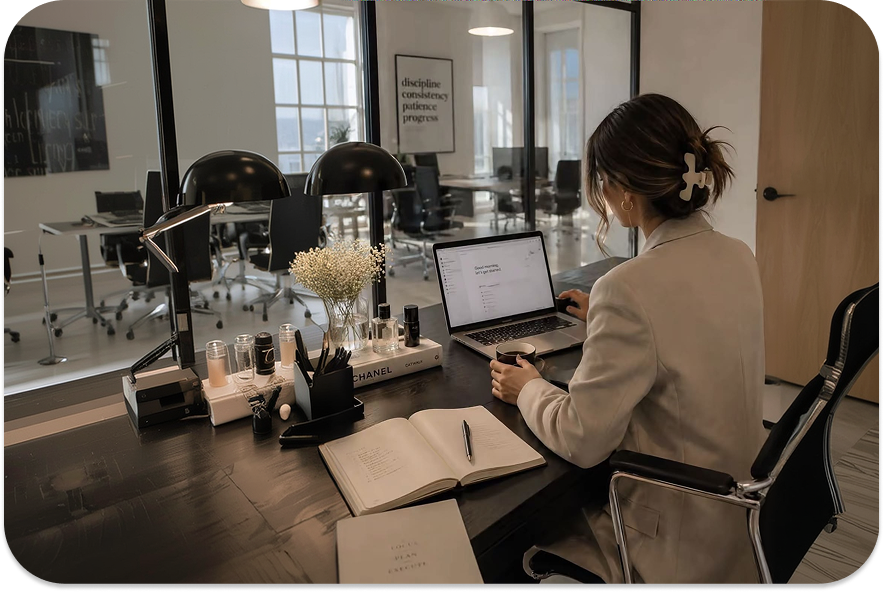
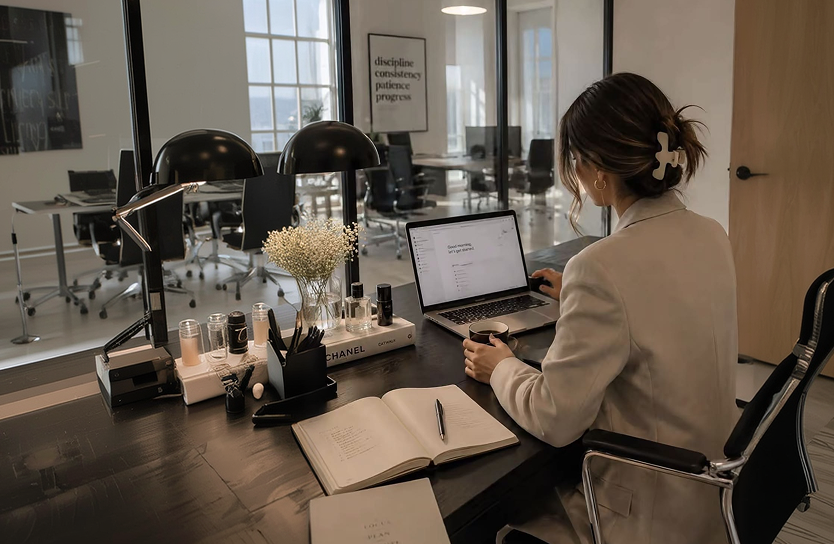
Changes in Landing page 2 basic

diff --git a/client/src/index.css b/client/src/index.css
@@ -12,12 +12,18 @@
 html { scroll-behavior: smooth; }
 body { margin: 0; min-width: 320px; background: #f8ece6; color: #333c37; }
 a { color: inherit; text-decoration: none; }
+button, a { -webkit-tap-highlight-color: transparent; }
+a:focus-visible, button:focus-visible, input:focus-visible { outline: 3px solid #a86da8; outline-offset: 4px; }
 
-.site-header { position: absolute; z-index: 10; width: 100%; padding: 28px 61px 21px; }
+.site-header { position: sticky; top: 0; z-index: 20; width: 100%; padding: 18px 61px; margin-bottom: -116px; transition: padding .25s ease; }
+.site-header.is-scrolled { padding-block: 10px; }
+.site-header.is-scrolled .navbar { box-shadow: 0 10px 24px rgba(74,50,39,.18); background: rgba(248,236,230,.72); }
 .navbar { position: relative; display: flex; height: 80px; width: 100%; align-items: center; justify-content: flex-end; gap: 75px; padding: 12px 40px; border: 1px solid rgba(118,75,100,.4); border-radius: 33px; background: rgba(241,228,221,.34); box-shadow: 4px 4px 7.3px rgba(74,50,39,.17); backdrop-filter: blur(3.1px); }
 .brand { position: absolute; left: 21px; display: flex; align-items: center; gap: 30px; padding: 5px; font: 400 36px/1 var(--font-roboto); color: #000; }
 .brand img { width: 60px; height: 58px; object-fit: contain; }
+.brand:hover img { transform: rotate(-7deg) scale(1.08); } .brand img { transition: transform .25s ease; }
 .nav-links { display: flex; align-items: center; gap: 32px; font: 400 24px/1 var(--font-roboto); color: #000; }
+.nav-links a { position: relative; padding: 7px 0; } .nav-links a::after { content: ''; position: absolute; right: 0; bottom: 0; left: 0; height: 2px; background: #6a4074; transform: scaleX(0); transform-origin: right; transition: transform .25s ease; } .nav-links a:hover::after, .nav-links a.active::after { transform: scaleX(1); transform-origin: left; }
 .signup-link { font-weight: 700; }
 
 .hero-section { position: relative; display: flex; height: 960px; align-items: center; background-position: center; background-size: cover; }
@@ -25,14 +31,18 @@ a { color: inherit; text-decoration: none; }
 .hero-content h1 { margin: 0; font: 400 clamp(70px, 8.333vw, 120px)/.833 var(--font-bebas); color: #333c37; letter-spacing: 0; }
 .hero-content > p { width: min(573px, 82vw); margin: 22px 0 0; color: #7c8c67; font: 600 italic 24px/normal var(--font-rosario); letter-spacing: .48px; }
 .hero-actions { display: flex; gap: 41px; margin: 126px 0 0 27px; }
+.hero-action, .service-action { position: relative; overflow: hidden; cursor: pointer; transition: transform .25s ease, box-shadow .25s ease, filter .25s ease; }
 .hero-action { display: grid; width: 236px; height: 65px; place-items: center; border: 3px solid #62394f; border-radius: 400px; box-shadow: 2px 6px 15.3px rgba(0,0,0,.25); color: #4a2c53; font: 700 24px/1 var(--font-rosario); backdrop-filter: blur(5.95px); }
+.hero-action:hover, .service-action:hover { transform: translateY(-3px) scale(1.025); box-shadow: 0 12px 24px rgba(74,44,83,.28); filter: brightness(1.06); }
 .hero-action-glass { border-color: #4a2c53; background: rgba(255,245,237,.2); }
+.scroll-indicator { position: absolute; bottom: 28px; left: 50%; width: 25px; height: 42px; border: 2px solid #62394f; border-radius: 20px; transform: translateX(-50%); }.scroll-indicator span { display:block; width:5px; height:5px; margin:8px auto; border-radius:50%; background:#62394f; animation: scrollDot 1.7s infinite; } @keyframes scrollDot { 0%,100%{transform:translateY(0);opacity:1} 60%{transform:translateY(15px);opacity:.2} }
 
 .services-heading { display: flex; min-height: 286px; flex-direction: column; align-items: center; justify-content: center; padding: 28px 20px 22px; text-align: center; }
 .services-heading p { margin: 0; color: #6a4074; font: 700 36px/normal var(--font-rosario); letter-spacing: 4.68px; }
 .services-heading h2 { margin: 16px 0 0; color: #333c37; font: 700 64px/normal var(--font-rosario); }
 .services-heading span { margin-top: 15px; color: #414a36; font: 400 24px/normal var(--font-rosarivo); }
-.service-card { display: flex; min-height: 530px; align-items: center; justify-content: center; padding: 25px 100px; backdrop-filter: blur(2px); }
+.service-card { display: flex; min-height: 580px; align-items: center; justify-content: center; padding: 25px 100px; backdrop-filter: blur(2px); transition: transform .3s ease, box-shadow .3s ease; }
+.service-card:hover { transform: translateY(-4px); box-shadow: 0 14px 34px rgba(74,50,39,.12); }
 .service-card.cream { background: #edeae3; }
 .service-card.lilac { background: #e8dee6; }
 .service-card-inner { display: grid; width: 100%; grid-template-columns: 680px minmax(0, 1fr); align-items: center; column-gap: 50px; }
@@ -40,14 +50,15 @@ a { color: inherit; text-decoration: none; }
 .service-card.reversed .service-copy { order: -1; }
 .service-image-wrap { width: 680px; height: 453px; flex: 0 0 auto; overflow: hidden; border-radius: 61px; box-shadow: 0 4px 4px rgba(0,0,0,.25); }
 .service-card.reversed .service-image-wrap { width: 680px; height: 453px; border-radius: 50px; }
-.service-image-wrap img { width: 100%; height: 100%; object-fit: cover; }
+.service-image-wrap, .service-copy { will-change: transform, opacity; }.service-image-wrap img { width: 100%; height: 100%; object-fit: cover; filter: blur(6px); transition: filter .35s ease; }.service-image-wrap img.loaded { filter: blur(0); }
 .service-copy { display: flex; width: 100%; min-height: 0; flex-direction: column; justify-content: flex-start; gap: 28px; padding: 8px 0; }
-.service-eyebrow { margin: 0; color: #6a4074; font: 700 36px/normal var(--font-rosario); }
+.service-eyebrow { margin: 0; color: #6a4074; font: 700 24px/normal var(--font-rosario); }.service-eyebrow span { margin-right: 10px; font-size: .75em; }
 .service-copy h3 { width: auto; margin: 16px 0 0; color: #333c37; font: 700 48px/normal var(--font-rosario); }
 .service-description { width: 100%; max-width: 610px; margin: 9px 0 0; color: #414a36; font: 400 24px/normal var(--font-rosarivo); }
 .service-card:not(.reversed) .service-description { max-width: none; }
 .service-card.reversed .service-description { max-width: none; }
 .service-action { display: grid; width: 246px; height: 65px; place-items: center; border: 1px solid rgba(122,79,122,.87); border-radius: 15px; background: linear-gradient(90deg,#754c75 0%,#8e5d8e 50.481%,#a86da8 100%); box-shadow: 3px 3px 15.3px rgba(0,0,0,.25); color: #fffeff; font: 700 24px/1 var(--font-rosario); letter-spacing: .72px; }
+.about-anchor { min-height: 1px; background: linear-gradient(120deg,#f8ece6,#eee4ee); }.site-footer { padding: 92px max(60px,8vw) 32px; background: #333c37; color: #f8ece6; }.footer-grid { display:grid; grid-template-columns:1.45fr .8fr .95fr 1.2fr; gap:72px; }.footer-grid h3 { margin:0 0 20px; color:#e7b9d9; font:700 20px var(--font-rosario); }.footer-grid p { margin:0 0 16px; color:#d9d5c9; font:400 17px/1.6 var(--font-rosarivo); }.footer-grid a:not(.footer-brand) { display:block; width:max-content; margin:12px 0; transition:color .2s,transform .2s; }.footer-grid a:not(.footer-brand):hover { color:#e7b9d9; transform:translateX(3px); }.footer-brand { display:flex; align-items:center; gap:12px; margin-bottom:18px; font:700 32px var(--font-roboto); }.footer-brand img { width:45px; height:45px; }.footer-grid form { display:flex; gap:10px; margin-top:20px; }.footer-grid input { min-width:0; width:100%; border:1px solid #b9afaa; border-radius:10px; padding:13px; background:#fff8f4; color:#333c37; }.footer-grid button { border:0; border-radius:10px; padding:13px 17px; background:#a86da8; color:white; font-weight:700; cursor:pointer; }.socials { display:flex; gap:10px; margin-top:20px; }.socials a { display:grid!important; width:32px!important; height:32px; place-items:center; border:1px solid #d9d5c9; border-radius:50%; }.footer-bottom { display:flex; justify-content:space-between; gap:16px; margin-top:72px; padding-top:26px; border-top:1px solid rgba(255,255,255,.2); color:#d9d5c9; }.footer-bottom span:last-child { display:flex; gap:18px; }.scroll-progress { position:fixed; z-index:50; top:0; left:0; width:100%; height:3px; transform-origin:left; background:#a86da8; }.back-to-top { position:fixed; right:22px; bottom:22px; z-index:15; width:46px; height:46px; border:0; border-radius:50%; background:#6a4074; box-shadow:0 6px 18px rgba(0,0,0,.25); color:white; font-size:24px; cursor:pointer; transition:transform .2s; }.back-to-top:hover { transform:translateY(-4px); }
 
 @media (max-width: 1200px) {
   .service-card { padding-inline: 48px; }
@@ -75,6 +86,7 @@ a { color: inherit; text-decoration: none; }
   .service-image-wrap, .service-card.reversed .service-image-wrap { width: min(680px, 100%); height: auto; aspect-ratio: 3 / 2; }
   .service-copy { width: min(783px, 100%); min-height: auto; gap: 28px; padding: 0; }
   .service-copy h3 { width: auto; }
+  .footer-grid { grid-template-columns: repeat(2, 1fr); }
 }
 
 @media (max-width: 600px) {
@@ -99,4 +111,5 @@ a { color: inherit; text-decoration: none; }
   .service-copy h3 { margin-top: 10px; font-size: 38px; }
   .service-description { margin-top: 10px; font-size: 19px; }
   .service-action { width: 210px; height: 58px; font-size: 19px; }
+  .footer-grid { grid-template-columns: 1fr; gap: 28px; }.site-footer { padding: 55px 24px 22px; }.footer-bottom { flex-direction: column; font-size: 14px; }.scroll-indicator { bottom: 18px; }
 }

diff --git a/client/src/components/sections/ServicesSection.jsx b/client/src/components/sections/ServicesSection.jsx
@@ -1,6 +1,8 @@
 import careerDiscovery from '../../assets/images/career-discovery.png'
 import smartHiring from '../../assets/images/smart-hiring.png'
 import marketplace from '../../assets/images/marketplace.png'
+import { motion } from 'framer-motion'
+import { useState } from 'react'
 
 const services = [
   {
@@ -34,22 +36,23 @@ const services = [
 ]
 
 function ServiceCard({ service }) {
+  const [loaded, setLoaded] = useState(false)
   return (
-    <article className={`service-card ${service.tone} ${service.reversed ? 'reversed' : ''}`}>
+    <motion.article initial="hidden" whileInView="visible" viewport={{ once: true, amount: .12, margin: '0px 0px -8% 0px' }} className={`service-card ${service.tone} ${service.reversed ? 'reversed' : ''}`}>
       <div className="service-card-inner">
-        <div className="service-image-wrap">
-          <img src={service.image} alt={service.imageAlt} />
-        </div>
-        <div className="service-copy">
+        <motion.div className="service-image-wrap" variants={{ hidden: { opacity: 0, y: 42 }, visible: { opacity: 1, y: 0, transition: { duration: .9, ease: [0.16, 1, 0.3, 1] } } }}>
+          <img className={loaded ? 'loaded' : ''} loading="lazy" src={service.image} alt={service.imageAlt} onLoad={() => setLoaded(true)} />
+        </motion.div>
+        <motion.div className="service-copy" variants={{ hidden: { opacity: 0, y: 32 }, visible: { opacity: 1, y: 0, transition: { duration: .82, delay: .16, ease: [0.16, 1, 0.3, 1] } } }}>
           <div>
             <p className="service-eyebrow">{service.eyebrow}</p>
             <h3>{service.title}</h3>
             <p className="service-description">{service.description}</p>
           </div>
           <a className="service-action" href="#signup">{service.action}</a>
-        </div>
+        </motion.div>
       </div>
-    </article>
+    </motion.article>
   )
 }
 

diff --git a/client/src/components/sections/HeroSection.jsx b/client/src/components/sections/HeroSection.jsx
@@ -1,16 +1,20 @@
 import heroBackground from '../../assets/images/hero-background.png'
+import { motion } from 'framer-motion'
+import { useState } from 'react'
 
 function HeroSection() {
+  const [offset, setOffset] = useState({ x: 0, y: 0 })
   return (
-    <section id="home" className="hero-section" style={{ backgroundImage: `url(${heroBackground})` }}>
-      <div className="hero-content">
-        <h1>No LIMITS.<br />ENDLESS<br />Opportunities!</h1>
-        <p>A platform that empowers women to discover careers, connect with employers, and grow their businesses—all in one place.</p>
+    <section id="home" className="hero-section" style={{ backgroundImage: `url(${heroBackground})` }} onMouseMove={(e) => setOffset({ x: (e.clientX / window.innerWidth - .5) * 12, y: (e.clientY / window.innerHeight - .5) * 12 })}>
+      <motion.div className="hero-content" animate={{ x: offset.x, y: offset.y }} transition={{ type: 'spring', stiffness: 45, damping: 18 }}>
+        <motion.h1 initial={{ opacity: 0, y: 32 }} animate={{ opacity: 1, y: 0 }} transition={{ duration: .7 }}>No LIMITS.<br />ENDLESS<br />Opportunities!</motion.h1>
+        <motion.p initial={{ opacity: 0, y: 20 }} animate={{ opacity: 1, y: 0 }} transition={{ duration: .6, delay: .18 }}>A platform that empowers women to discover careers, connect with employers, and grow their businesses—all in one place.</motion.p>
         <div className="hero-actions">
           <a className="hero-action hero-action-outline" href="#services">Explore Services</a>
           <a className="hero-action hero-action-glass" href="#about">Learn More</a>
         </div>
-      </div>
+      </motion.div>
+      <a className="scroll-indicator" href="#services" aria-label="Scroll to services"><span /></a>
     </section>
   )
 }

diff --git a/client/src/components/layout/Header.jsx b/client/src/components/layout/Header.jsx
@@ -1,18 +1,31 @@
+import { useEffect, useState } from 'react'
 import logo from '../../assets/icons/wiryaa-logo.png'
 
+const links = [['home', 'Home'], ['services', 'Services'], ['about', 'About us'], ['contact', 'Contact']]
+
 function Header() {
+  const [scrolled, setScrolled] = useState(false)
+  const [active, setActive] = useState('home')
+
+  useEffect(() => {
+    const onScroll = () => {
+      setScrolled(window.scrollY > 12)
+      const current = [...links].reverse().find(([id]) => document.getElementById(id)?.getBoundingClientRect().top <= 180)
+      if (current) setActive(current[0])
+    }
+    onScroll(); window.addEventListener('scroll', onScroll, { passive: true })
+    return () => window.removeEventListener('scroll', onScroll)
+  }, [])
+
   return (
-    <header className="site-header">
+    <header className={`site-header ${scrolled ? 'is-scrolled' : ''}`}>
       <nav className="navbar" aria-label="Primary navigation">
         <a className="brand" href="#home" aria-label="Wiryaa home">
           <img src={logo} alt="" />
           <span>Wiryaa</span>
         </a>
         <div className="nav-links">
-          <a href="#home">Home</a>
-          <a href="#services">Services</a>
-          <a href="#about">About us</a>
-          <a href="#contact">Contact</a>
+          {links.map(([id, label]) => <a key={id} className={active === id ? 'active' : ''} href={`#${id}`}>{label}</a>)}
           <a className="signup-link" href="#signup">Sign up</a>
         </div>
       </nav>

diff --git a/client/src/components/layout/Footer.jsx b/client/src/components/layout/Footer.jsx
@@ -1,0 +1,11 @@
+import logo from '../../assets/icons/wiryaa-logo.png'
+import { useState } from 'react'
+
+function Footer() {
+  const [subscribed, setSubscribed] = useState(false)
+  return <footer id="contact" className="site-footer">
+    <div className="footer-grid"><div><a className="footer-brand" href="#home"><img src={logo} alt="" />Wiryaa</a><p>Careers, hiring and entrepreneurship—built to help women move forward.</p></div><div><h3>Quick Links</h3><a href="#home">Home</a><a href="#services">Services</a><a href="#about">About</a><a href="#services">Marketplace</a></div><div><h3>Contact</h3><a href="mailto:hello@wiryaa.com">hello@wiryaa.com</a><a href="tel:+910000000000">+91 00000 00000</a><p>India · Built with purpose</p><div className="socials"><a href="#linkedin">in</a><a href="#github">gh</a><a href="#instagram">ig</a></div></div><div><h3>Stay in the loop</h3><p>Get opportunities and thoughtful updates.</p><form onSubmit={(e) => { e.preventDefault(); setSubscribed(true) }}><input type="email" required aria-label="Email address" placeholder="Email address" /><button type="submit">{subscribed ? 'Subscribed!' : 'Subscribe'}</button></form></div></div>
+    <div className="footer-bottom"><span>© 2026 Wiryaa. All rights reserved.</span><span><a href="#privacy">Privacy</a><a href="#terms">Terms</a></span></div>
+  </footer>
+}
+export default Footer

diff --git a/client/src/components/layout/PageEnhancements.jsx b/client/src/components/layout/PageEnhancements.jsx
@@ -1,0 +1,3 @@
+import { useEffect, useState } from 'react'
+function PageEnhancements() { const [progress, setProgress] = useState(0); useEffect(() => { const update = () => setProgress(window.scrollY / Math.max(1, document.documentElement.scrollHeight - innerHeight) * 100); update(); addEventListener('scroll', update, { passive: true }); return () => removeEventListener('scroll', update) }, []); return <><div className="scroll-progress" style={{ transform: `scaleX(${progress / 100})` }} /><button className="back-to-top" onClick={() => scrollTo({ top: 0, behavior: 'smooth' })} aria-label="Back to top">↑</button></> }
+export default PageEnhancements

diff --git a/client/src/pages/LandingPage.jsx b/client/src/pages/LandingPage.jsx
@@ -1,6 +1,8 @@
 import Header from '../components/layout/Header'
 import HeroSection from '../components/sections/HeroSection'
 import ServicesSection from '../components/sections/ServicesSection'
+import Footer from '../components/layout/Footer'
+import PageEnhancements from '../components/layout/PageEnhancements'
 
 function LandingPage() {
   return (
@@ -8,6 +10,9 @@ function LandingPage() {
       <Header />
       <HeroSection />
       <ServicesSection />
+      <section id="about" className="about-anchor" aria-label="About Wiryaa" />
+      <Footer />
+      <PageEnhancements />
     </main>
   )
 }
